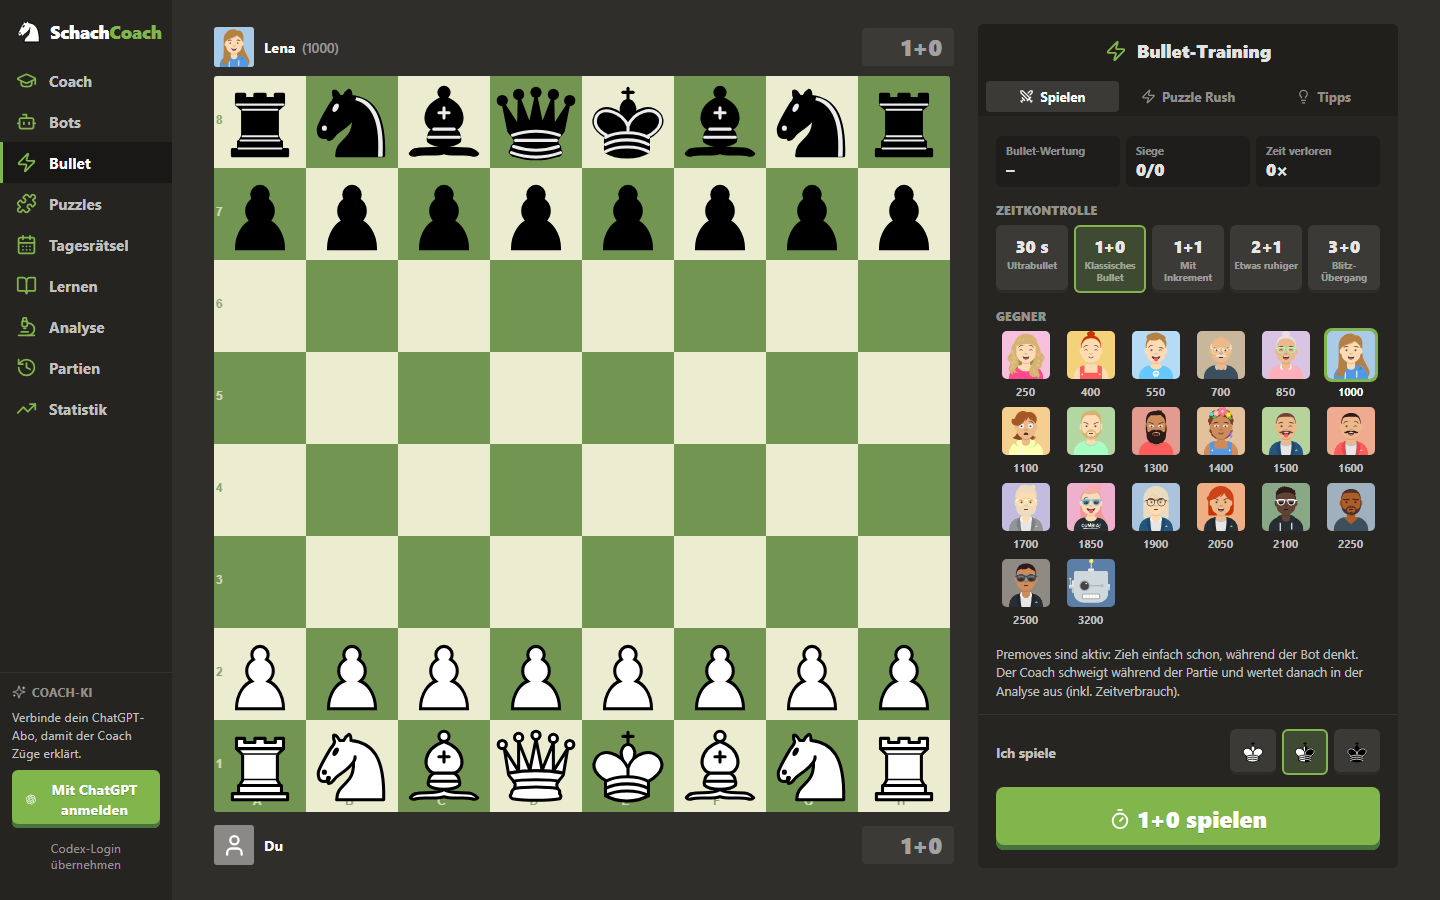
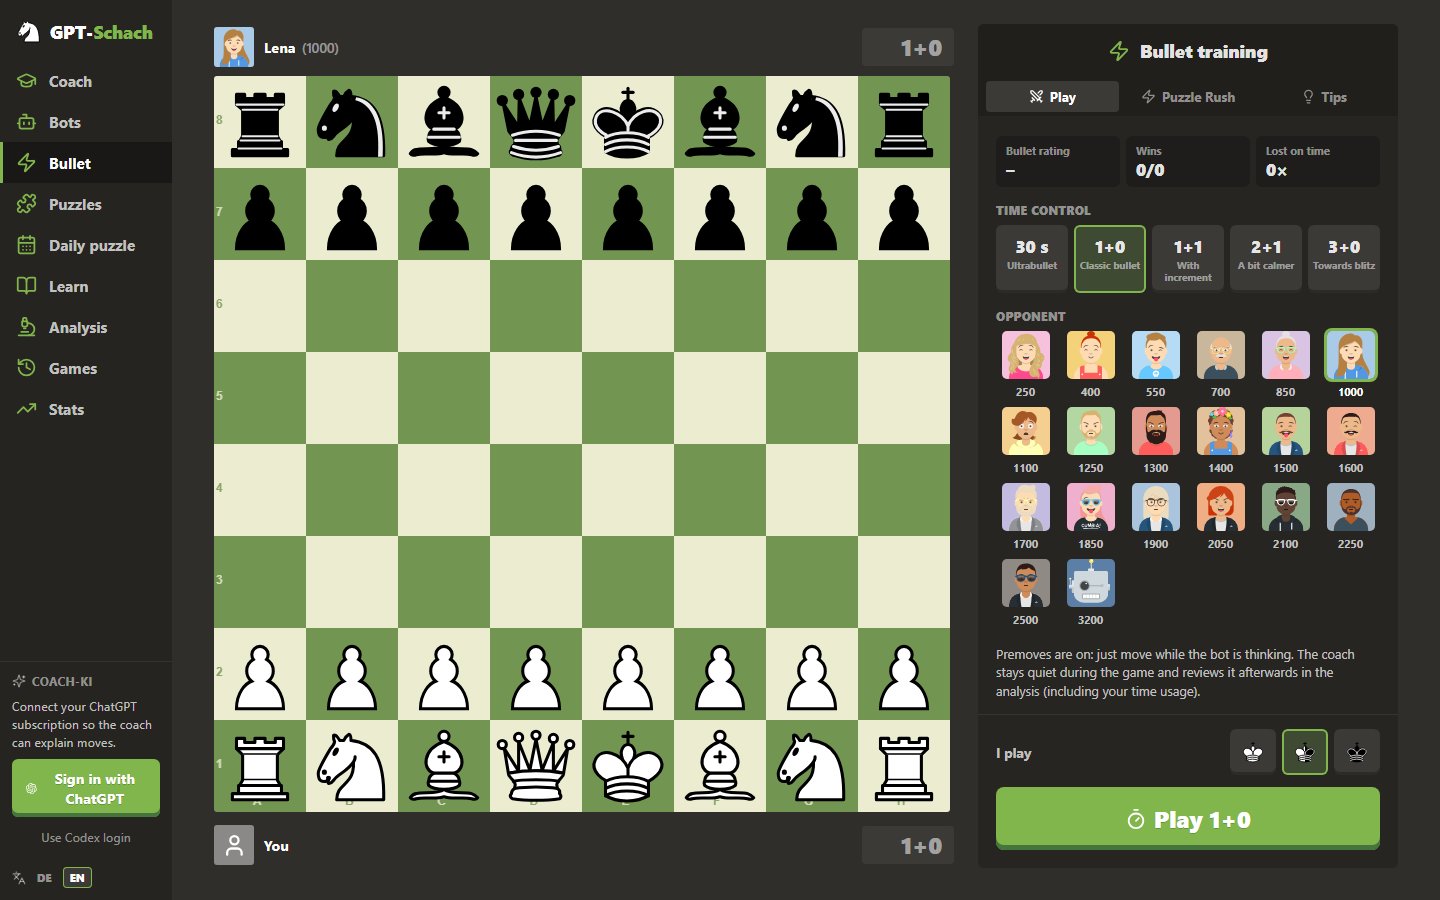
Sidebar: „Coach-KI“ übersetzt

diff --git a/src/components/AccountBar.tsx b/src/components/AccountBar.tsx
@@ -83,7 +83,7 @@ export function AccountBar({ auth, setAuth, settings, setSettings }: Props) {
     return (
       <div className="account">
         <div className="account-title">
-          <Sparkles size={14} /> Coach-KI
+          <Sparkles size={14} /> {L('Coach-KI', 'AI coach')}
         </div>
         <p className="account-hint">{L('Verbinde dein ChatGPT-Abo, damit der Coach Züge erklärt.', 'Connect your ChatGPT subscription so the coach can explain moves.')}</p>
         <button className="btn primary block" onClick={login} disabled={busy}>
@@ -100,7 +100,7 @@ export function AccountBar({ auth, setAuth, settings, setSettings }: Props) {
   return (
     <div className="account">
       <div className="account-title">
-        <Sparkles size={14} /> Coach-KI
+        <Sparkles size={14} /> {L('Coach-KI', 'AI coach')}
       </div>
       <Select
         label={L('Modell', 'Model')}
